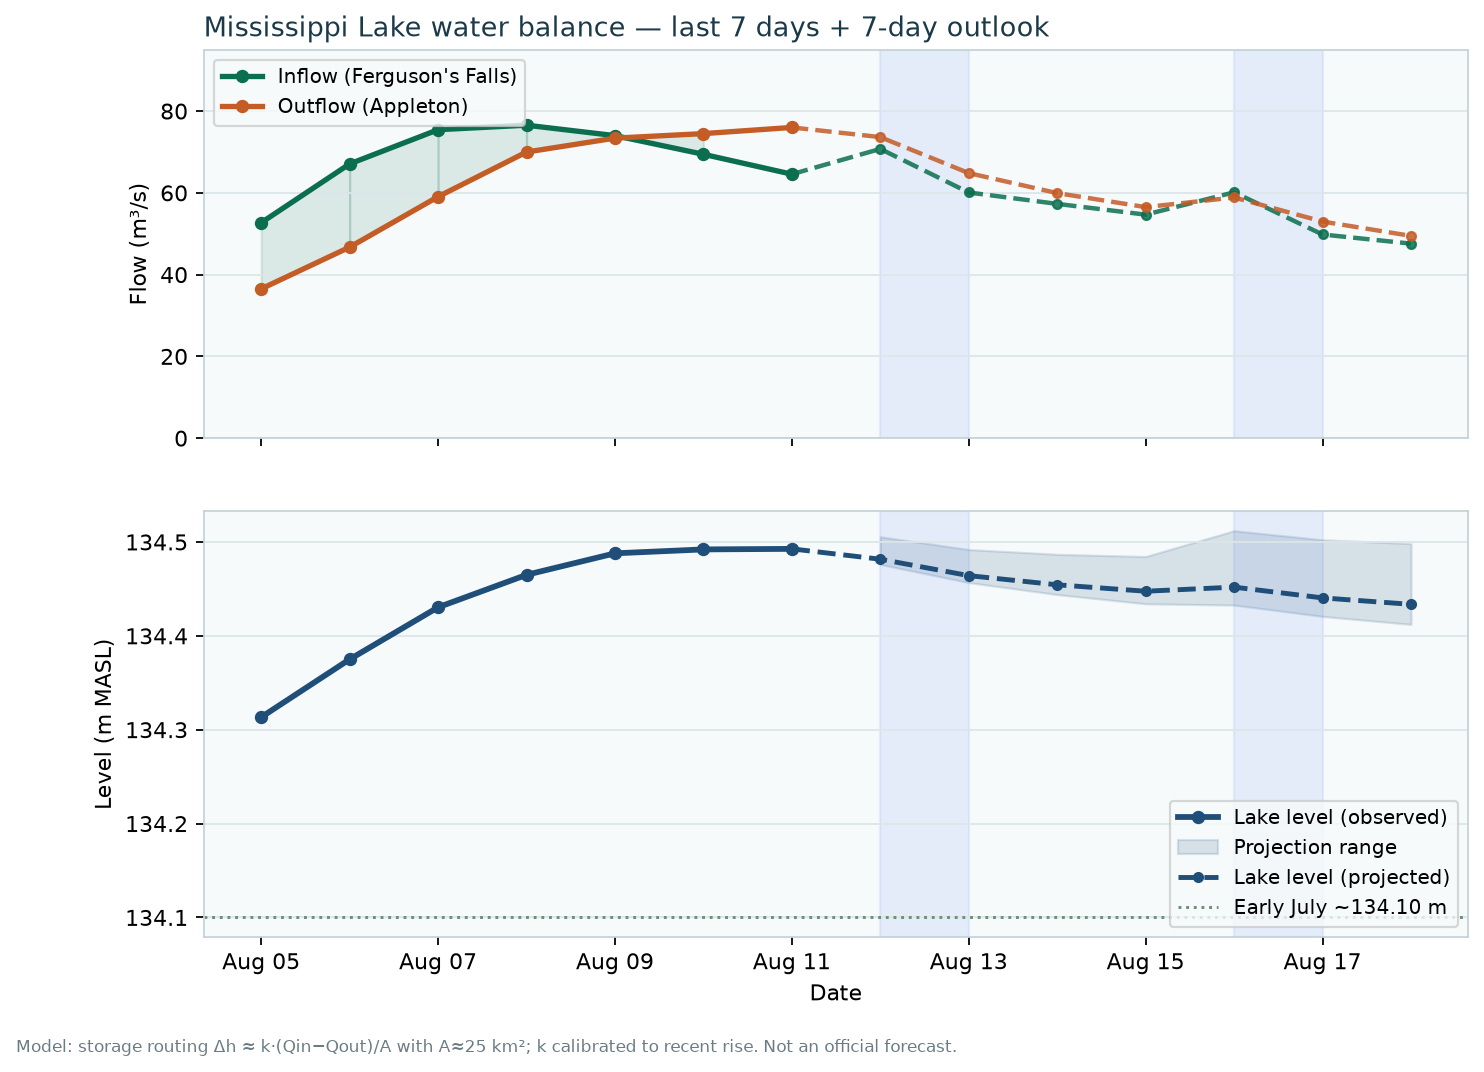
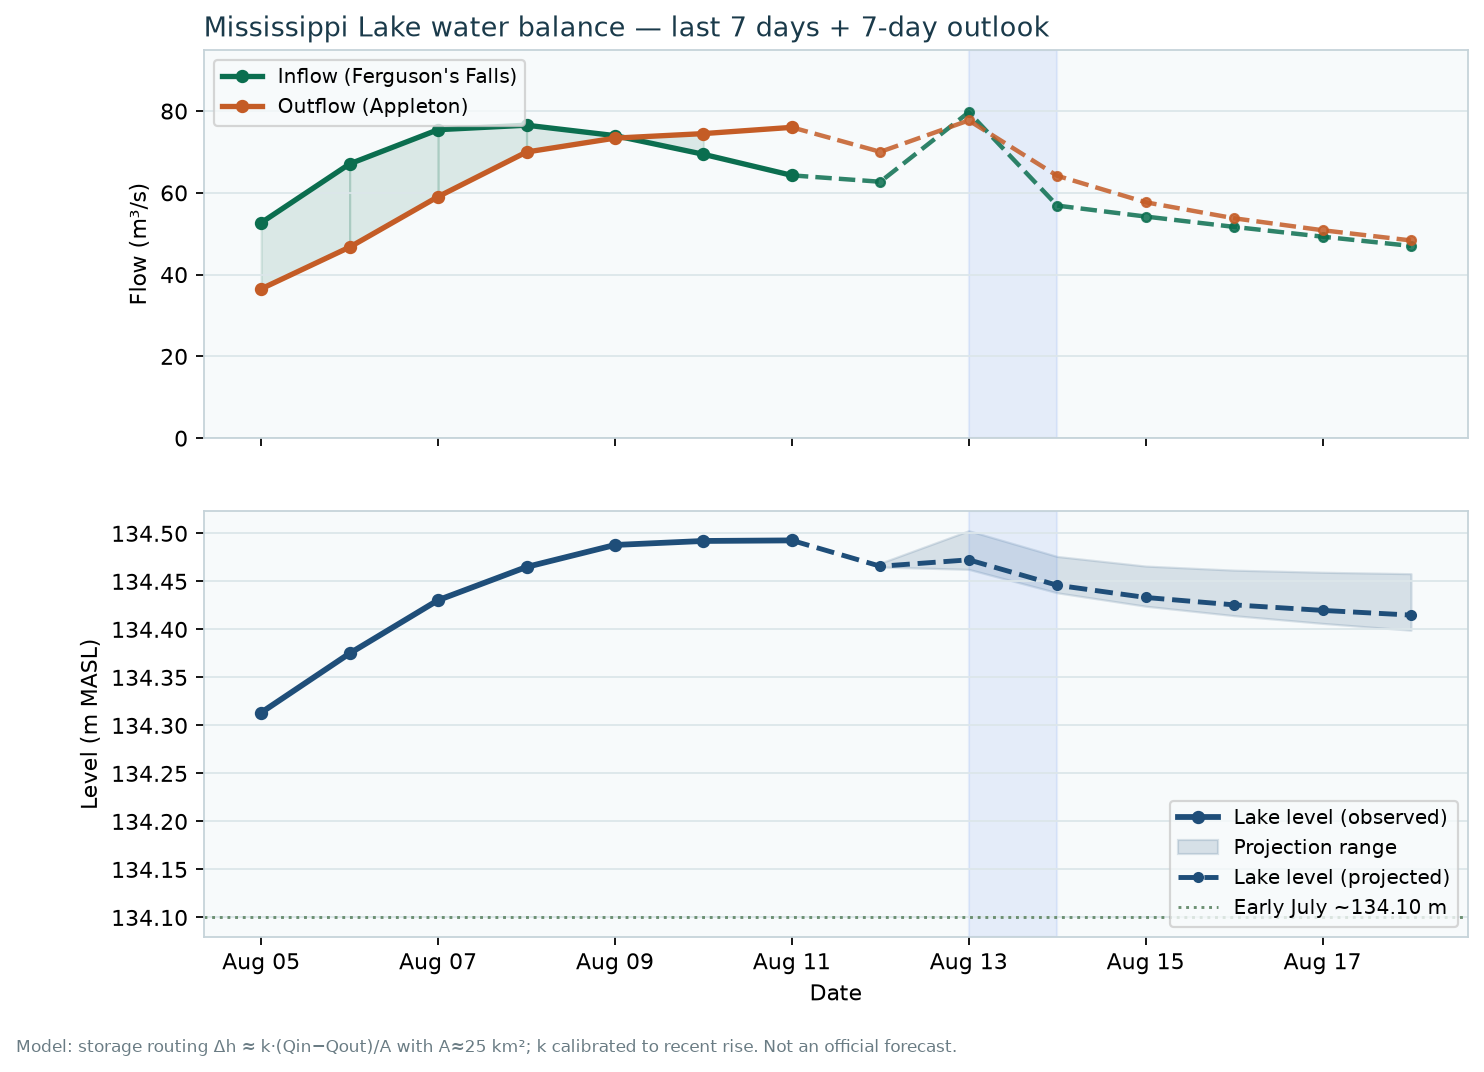
Skip incomplete lake days when building history.
Flow gauges can publish today before KiWIS has a lake daily, which caused KeyError on hist_lake. Chart only overlapping days and use Toronto local date.

diff --git a/index.html b/index.html
@@ -39,7 +39,7 @@
             <td style="background:#1a3a4a;padding:28px 32px 24px 32px;">
               <p style="margin:0 0 6px 0;font-family:Arial,Helvetica,sans-serif;font-size:12px;letter-spacing:0.12em;text-transform:uppercase;color:#8eb8c8;">Mississippi Lake · Ontario</p>
               <h1 style="margin:0;font-family:Georgia,serif;font-size:28px;line-height:1.25;font-weight:normal;color:#ffffff;">High Water Update for Cottagers</h1>
-              <p style="margin:10px 0 0 0;font-family:Arial,Helvetica,sans-serif;font-size:14px;color:#b7d0da;">Updated 2026-08-11 18:51 EDT · auto-refreshes ~3× daily</p>
+              <p style="margin:10px 0 0 0;font-family:Arial,Helvetica,sans-serif;font-size:14px;color:#b7d0da;">Updated 2026-08-12 06:55 EDT · auto-refreshes ~3× daily</p>
             </td>
           </tr>
           <tr>
@@ -64,18 +64,18 @@
                 </div>
                 <div class="kpi">
                   <p class="kpi-label">In − out gap</p>
-                  <p class="kpi-value" style="color:#0b6e4f;">-11.4</p>
-                  <p class="kpi-sub">m³/s · Draining<br>Inflow 64.6 · Outflow 76.0</p>
+                  <p class="kpi-value" style="color:#0b6e4f;">-11.7</p>
+                  <p class="kpi-sub">m³/s · Draining<br>Inflow 64.3 · Outflow 76.0</p>
                 </div>
                 <div class="kpi">
                   <p class="kpi-label">Inflow</p>
-                  <p class="kpi-value">64.6</p>
+                  <p class="kpi-value">64.3</p>
                   <p class="kpi-sub">m³/s<br>Ferguson’s Falls</p>
                 </div>
                 <div class="kpi">
                   <p class="kpi-label">7-day outlook</p>
-                  <p class="kpi-value" style="color:#0b6e4f;">134.43<span style="font-size:14px;font-weight:600;color:#5a7a86;"> m</span></p>
-                  <p class="kpi-sub">-6 cm modeled change<br>not an official forecast</p>
+                  <p class="kpi-value" style="color:#0b6e4f;">134.41<span style="font-size:14px;font-weight:600;color:#5a7a86;"> m</span></p>
+                  <p class="kpi-sub">-8 cm modeled change<br>not an official forecast</p>
                 </div>
               </div>
             </td>
@@ -83,7 +83,7 @@
           <tr>
             <td style="padding:16px 32px 4px 32px;font-family:Georgia,serif;font-size:16px;color:#243036;">
               <h2 style="margin:0 0 8px 0;font-size:20px;color:#1a3a4a;">Inflow, outflow &amp; lake level</h2>
-              <p style="margin:0 0 12px 0;font-size:15px;">Solid = last 7 days observed. Dashed = next 7 days modeled. Rain-sensitive days in forecast: 2026-08-12 (~bump), 2026-08-16 (~bump). <span style="color:#5a7a86;">Click the chart for full screen.</span></p>
+              <p style="margin:0 0 12px 0;font-size:15px;">Solid = last 7 days observed. Dashed = next 7 days modeled. Rain-sensitive days in forecast: 2026-08-13 (~bump). <span style="color:#5a7a86;">Click the chart for full screen.</span></p>
             </td>
           </tr>
           <tr>

diff --git a/update_site.py b/update_site.py
@@ -17,6 +17,7 @@ from collections import defaultdict
 from datetime import date, datetime, timedelta, timezone
 from pathlib import Path
 from statistics import mean
+from zoneinfo import ZoneInfo
 
 ROOT = Path(__file__).resolve().parent
 DATA = ROOT / "data"
@@ -93,7 +94,9 @@ def fetch_open_meteo_wed_rain(lat=45.14, lon=-76.15) -> dict[str, float]:
 
 def build_series() -> dict:
     now = datetime.now(timezone.utc)
-    edt = now - timedelta(hours=4)
+    tor = now.astimezone(ZoneInfo("America/Toronto"))
+    today = tor.date()
+    edt = tor
     end = (now + timedelta(days=1)).strftime("%Y-%m-%dT%H:%M:%SZ")
     start = (now - timedelta(days=10)).strftime("%Y-%m-%dT00:00:00Z")
     frm = (now - timedelta(days=10)).strftime("%Y-%m-%dT00:00:00-0400")
@@ -103,10 +106,17 @@ def build_series() -> dict:
     ap = fetch_wsc_daily("02KF006", start, end)
     lake = fetch_lake_daily(frm, to)
 
-    days = sorted(set(ff) | set(ap) | set(lake))
-    days = [d for d in days if d >= (date.today() - timedelta(days=7)).isoformat()][-7:]
+    # Flow gauges often publish today's partial day before KiWIS has a lake day.
+    # Only chart days that have both lake level and Ferguson inflow.
+    overlap = sorted(set(ff) & set(lake))
+    cutoff = (today - timedelta(days=7)).isoformat()
+    days = [d for d in overlap if d >= cutoff][-7:]
     if len(days) < 3:
-        days = sorted(set(ff) | set(lake))[-7:]
+        days = overlap[-7:]
+    if len(days) < 3:
+        raise RuntimeError(
+            f"Not enough overlapping gauge days (ff={len(ff)}, lake={len(lake)}, overlap={len(overlap)})"
+        )
 
     hist_ff = [ff[d] for d in days]
     hist_ap = [ap.get(d, ff[d]) for d in days]
